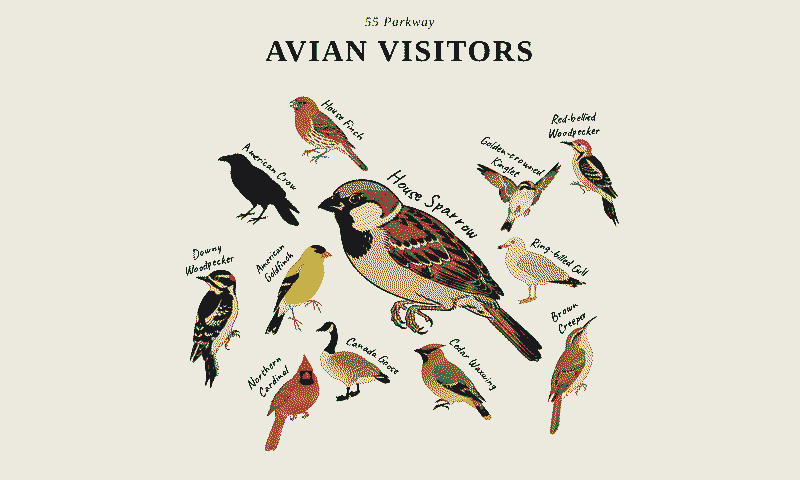
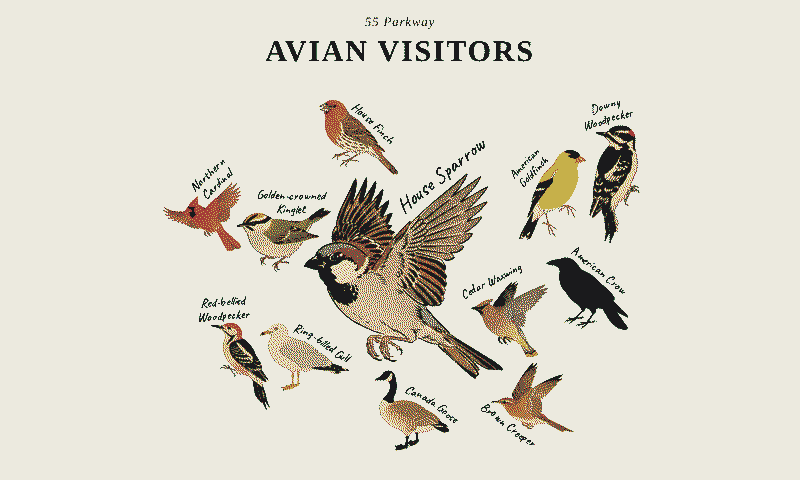
Update style previews

Changed region(s): [[0.1875, 0.1875, 0.8125, 0.9375]]

diff --git a/previews/README.md b/previews/README.md
@@ -8,9 +8,19 @@ Live birds from the configured station, rendered in each style. Left: full colou
 
 <img src="woodblock.png" width="49%"> <img src="woodblock-eink.png" width="49%">
 
+## Evolutionary Impressionist  (`STYLE=impressionist`)
+
+12 birds: House Sparrow, Red-bellied Woodpecker, Golden-crowned Kinglet, American Goldfinch, House Finch, American Crow, Cedar Waxwing, Northern Cardinal, Canada Goose, Downy Woodpecker, Brown Creeper, Ring-billed Gull
+
+<img src="impressionist.png" width="49%"> <img src="impressionist-eink.png" width="49%">
+
+## Audubon - Birds of America  (`STYLE=audubon`)
+
+12 birds: Red-bellied Woodpecker, Golden-crowned Kinglet, American Goldfinch, House Finch, American Crow, Cedar Waxwing, Northern Cardinal, Canada Goose, Downy Woodpecker, Brown Creeper, Ring-billed Gull, Common Grackle
+
+<img src="audubon.png" width="49%"> <img src="audubon-eink.png" width="49%">
+
 ## Not rendered
 
-- **impressionist**: not rendered (RuntimeError: frame labels missing for: Bombycilla cedrorum)
-- **audubon**: not rendered (RuntimeError: frame labels missing for: Regulus satrapa, Haemorhous mexicanus)
 - **ghibli**: not rendered (RuntimeError: style ghibli: dims.json missing in /home/runner/work/avian-frame/avian-frame/server/styles/ghibli)
 - **linocut**: not rendered (RuntimeError: style linocut: dims.json missing in /home/runner/work/avian-frame/avian-frame/server/styles/linocut)
